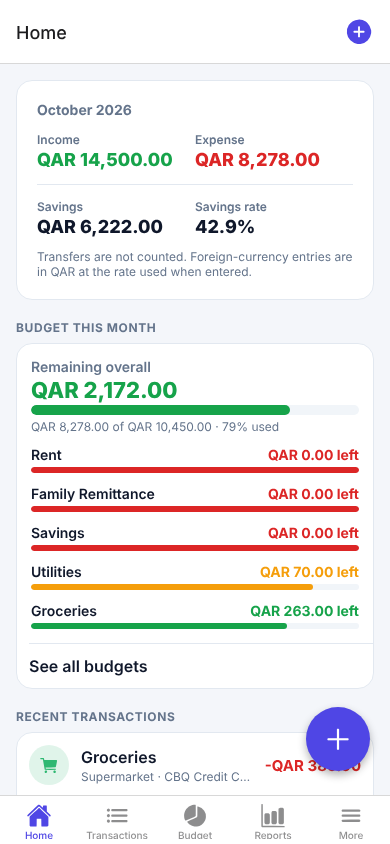
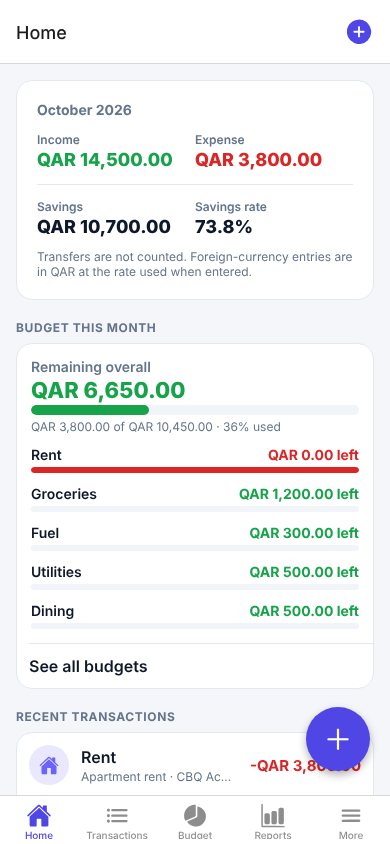
Fix blank page on Netlify: rename dist/assets/node_modules, which Netlify drops on upload
Claude-Session: https://claude.ai/code/session_017wEuWAYZqPhYq59oVia7xQ

diff --git a/scripts/fix-web-build.js b/scripts/fix-web-build.js
@@ -1,0 +1,31 @@
+// Netlify (and some other hosts) silently skip any folder named "node_modules" when you upload a site,
+// which loses the database engine and fonts. Rename that folder inside dist and update the references.
+const fs = require('fs');
+const path = require('path');
+
+const dist = path.join(__dirname, '..', 'dist');
+const from = path.join(dist, 'assets', 'node_modules');
+const to = path.join(dist, 'assets', 'vendor');
+if (!fs.existsSync(from)) {
+  console.log('Nothing to fix.');
+  process.exit(0);
+}
+fs.renameSync(from, to);
+
+let changed = 0;
+const walk = (dir) => {
+  for (const e of fs.readdirSync(dir, { withFileTypes: true })) {
+    const p = path.join(dir, e.name);
+    if (e.isDirectory()) walk(p);
+    else if (/\.(js|html|css|json)$/.test(e.name)) {
+      const s = fs.readFileSync(p, 'utf8');
+      const t = s.split('assets/node_modules/').join('assets/vendor/');
+      if (t !== s) {
+        fs.writeFileSync(p, t);
+        changed++;
+      }
+    }
+  }
+};
+walk(dist);
+console.log(`Renamed assets/node_modules to assets/vendor and updated ${changed} files.`);
